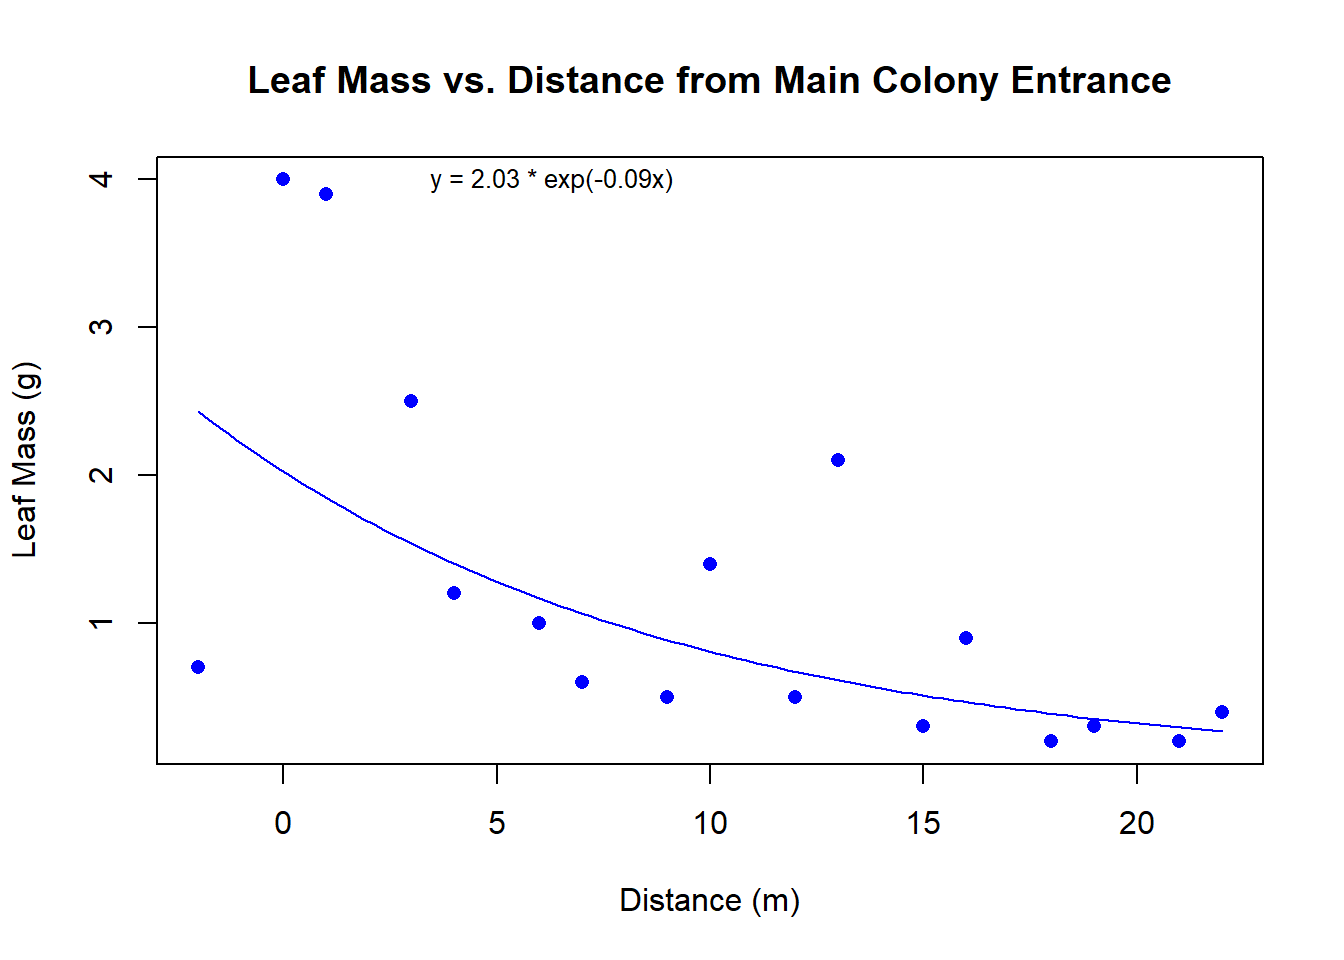
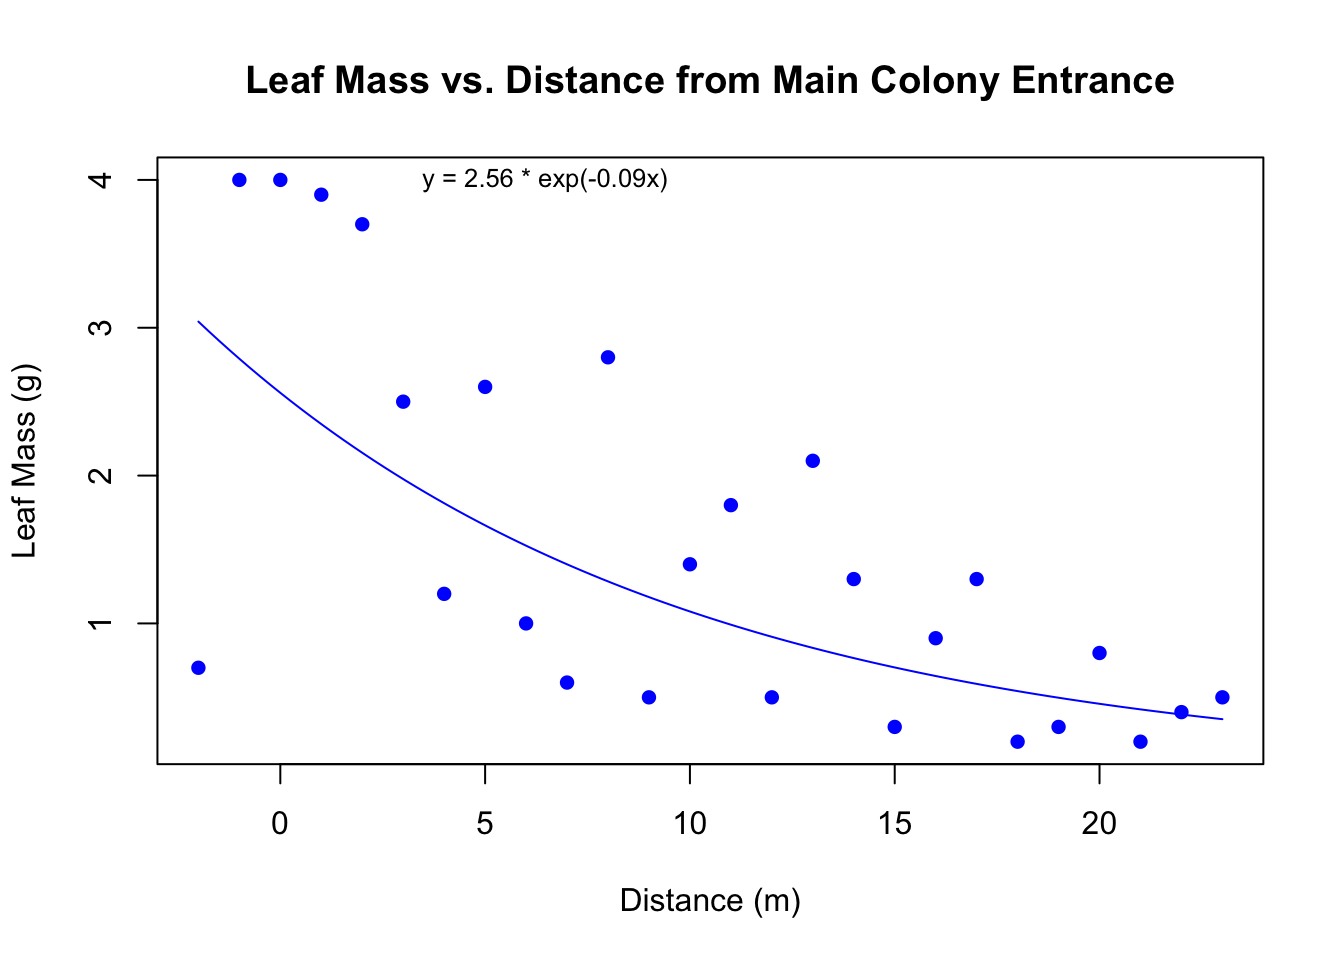
R Commit

diff --git a/Scatter Plot.html b/Scatter Plot.html
@@ -109,13 +109,13 @@ pre > code.sourceCode > span > a:first-child::before { text-decoration: underlin
 <h2 class="anchored" data-anchor-id="data">Data</h2>
 <div class="cell">
 <div class="sourceCode cell-code" id="cb1"><pre class="sourceCode r code-with-copy"><code class="sourceCode r"><span id="cb1-1"><a href="#cb1-1" aria-hidden="true" tabindex="-1"></a><span class="co"># vector x (distance from main colony entrance)</span></span>
-<span id="cb1-2"><a href="#cb1-2" aria-hidden="true" tabindex="-1"></a>x <span class="ot">&lt;-</span> <span class="fu">c</span>(<span class="dv">0</span>, <span class="dv">6</span>, <span class="dv">12</span>, <span class="dv">18</span>, <span class="dv">3</span>, <span class="dv">9</span>, <span class="dv">15</span>, <span class="dv">21</span>, <span class="dv">1</span>, <span class="dv">7</span>, <span class="dv">13</span>, <span class="dv">19</span>, <span class="sc">-</span><span class="dv">2</span>, <span class="dv">4</span>, <span class="dv">10</span>, <span class="dv">16</span>, <span class="dv">22</span>)</span>
+<span id="cb1-2"><a href="#cb1-2" aria-hidden="true" tabindex="-1"></a>x <span class="ot">&lt;-</span> <span class="fu">c</span>(<span class="dv">0</span>, <span class="dv">6</span>, <span class="dv">12</span>, <span class="dv">18</span>, <span class="dv">3</span>, <span class="dv">9</span>, <span class="dv">15</span>, <span class="dv">21</span>, <span class="dv">1</span>, <span class="dv">7</span>, <span class="dv">13</span>, <span class="dv">19</span>, <span class="sc">-</span><span class="dv">2</span>, <span class="dv">4</span>, <span class="dv">10</span>, <span class="dv">16</span>, <span class="dv">22</span>, <span class="dv">2</span>, <span class="dv">8</span>, <span class="dv">14</span>,<span class="dv">20</span>, <span class="sc">-</span><span class="dv">1</span>, <span class="dv">5</span>, <span class="dv">11</span>, <span class="dv">17</span>, <span class="dv">23</span>)</span>
 <span id="cb1-3"><a href="#cb1-3" aria-hidden="true" tabindex="-1"></a></span>
 <span id="cb1-4"><a href="#cb1-4" aria-hidden="true" tabindex="-1"></a><span class="co"># vector y (leaf pass in quadrat)</span></span>
-<span id="cb1-5"><a href="#cb1-5" aria-hidden="true" tabindex="-1"></a>y <span class="ot">&lt;-</span> <span class="fu">c</span>(<span class="dv">4</span>, <span class="dv">1</span>, <span class="fl">0.5</span>, <span class="fl">0.2</span>, <span class="fl">2.5</span>, <span class="fl">0.5</span>, <span class="fl">0.3</span>, <span class="fl">0.2</span>, <span class="fl">3.9</span>, <span class="fl">0.6</span>, <span class="fl">2.1</span>, <span class="fl">0.3</span>, <span class="fl">0.7</span>, <span class="fl">1.2</span>, <span class="fl">1.4</span>, <span class="fl">0.9</span>, <span class="fl">0.4</span>)</span>
+<span id="cb1-5"><a href="#cb1-5" aria-hidden="true" tabindex="-1"></a>y <span class="ot">&lt;-</span> <span class="fu">c</span>(<span class="dv">4</span>, <span class="dv">1</span>, <span class="fl">0.5</span>, <span class="fl">0.2</span>, <span class="fl">2.5</span>, <span class="fl">0.5</span>, <span class="fl">0.3</span>, <span class="fl">0.2</span>, <span class="fl">3.9</span>, <span class="fl">0.6</span>, <span class="fl">2.1</span>, <span class="fl">0.3</span>, <span class="fl">0.7</span>, <span class="fl">1.2</span>, <span class="fl">1.4</span>, <span class="fl">0.9</span>, <span class="fl">0.4</span>, <span class="fl">3.7</span>, <span class="fl">2.8</span>, <span class="fl">1.3</span>, <span class="fl">0.8</span>, <span class="fl">4.0</span>, <span class="fl">2.6</span>, <span class="fl">1.8</span>, <span class="fl">1.3</span>, <span class="fl">0.5</span>)</span>
 <span id="cb1-6"><a href="#cb1-6" aria-hidden="true" tabindex="-1"></a></span>
 <span id="cb1-7"><a href="#cb1-7" aria-hidden="true" tabindex="-1"></a><span class="co"># vector z (leaf count in quadrat)</span></span>
-<span id="cb1-8"><a href="#cb1-8" aria-hidden="true" tabindex="-1"></a>z <span class="ot">&lt;-</span> <span class="fu">c</span>(<span class="dv">124</span>, <span class="dv">43</span>, <span class="dv">21</span>,  <span class="dv">9</span>, <span class="dv">118</span>, <span class="dv">22</span>, <span class="dv">9</span>, <span class="dv">7</span>, <span class="dv">137</span>, <span class="dv">46</span>, <span class="dv">95</span>, <span class="dv">15</span>, <span class="dv">36</span>, <span class="dv">76</span>, <span class="dv">88</span>, <span class="dv">44</span>,  <span class="dv">21</span>)</span></code><button title="Copy to Clipboard" class="code-copy-button"><i class="bi"></i></button></pre></div>
+<span id="cb1-8"><a href="#cb1-8" aria-hidden="true" tabindex="-1"></a>z <span class="ot">&lt;-</span> <span class="fu">c</span>(<span class="dv">124</span>, <span class="dv">43</span>, <span class="dv">21</span>,  <span class="dv">9</span>, <span class="dv">118</span>, <span class="dv">22</span>, <span class="dv">9</span>, <span class="dv">7</span>, <span class="dv">137</span>, <span class="dv">46</span>, <span class="dv">95</span>, <span class="dv">15</span>, <span class="dv">36</span>, <span class="dv">76</span>, <span class="dv">88</span>, <span class="dv">44</span>,  <span class="dv">21</span>, <span class="dv">106</span>, <span class="dv">101</span>, <span class="dv">70</span>, <span class="dv">17</span>, <span class="dv">129</span>, <span class="dv">82</span>, <span class="dv">69</span>, <span class="dv">45</span>, <span class="dv">25</span>)</span></code><button title="Copy to Clipboard" class="code-copy-button"><i class="bi"></i></button></pre></div>
 </div>
 </section>
 <section id="sort-based-on-x" class="level2">
@@ -134,22 +134,31 @@ pre > code.sourceCode > span > a:first-child::before { text-decoration: underlin
 <div class="cell-output cell-output-stdout">
 <pre><code>    x   y   z          d
 13 -2 0.7  36 0.01944444
+22 -1 4.0 129 0.03100775
 1   0 4.0 124 0.03225806
 9   1 3.9 137 0.02846715
+18  2 3.7 106 0.03490566
 5   3 2.5 118 0.02118644
 14  4 1.2  76 0.01578947
+23  5 2.6  82 0.03170732
 2   6 1.0  43 0.02325581
 10  7 0.6  46 0.01304348
+19  8 2.8 101 0.02772277
 6   9 0.5  22 0.02272727
 15 10 1.4  88 0.01590909
+24 11 1.8  69 0.02608696
 3  12 0.5  21 0.02380952
 11 13 2.1  95 0.02210526
+20 14 1.3  70 0.01857143
 7  15 0.3   9 0.03333333
 16 16 0.9  44 0.02045455
+25 17 1.3  45 0.02888889
 4  18 0.2   9 0.02222222
 12 19 0.3  15 0.02000000
+21 20 0.8  17 0.04705882
 8  21 0.2   7 0.02857143
-17 22 0.4  21 0.01904762</code></pre>
+17 22 0.4  21 0.01904762
+26 23 0.5  25 0.02000000</code></pre>
 </div>
 </div>
 </section>
@@ -164,22 +173,31 @@ pre > code.sourceCode > span > a:first-child::before { text-decoration: underlin
 <div class="cell-output cell-output-stdout">
 <pre><code> Distance (m) Leaf Mass (g) Leaf Count Average Mass per Leaf
            -2           0.7         36            0.01944444
+           -1           4.0        129            0.03100775
             0           4.0        124            0.03225806
             1           3.9        137            0.02846715
+            2           3.7        106            0.03490566
             3           2.5        118            0.02118644
             4           1.2         76            0.01578947
+            5           2.6         82            0.03170732
             6           1.0         43            0.02325581
             7           0.6         46            0.01304348
+            8           2.8        101            0.02772277
             9           0.5         22            0.02272727
            10           1.4         88            0.01590909
+           11           1.8         69            0.02608696
            12           0.5         21            0.02380952
            13           2.1         95            0.02210526
+           14           1.3         70            0.01857143
            15           0.3          9            0.03333333
            16           0.9         44            0.02045455
+           17           1.3         45            0.02888889
            18           0.2          9            0.02222222
            19           0.3         15            0.02000000
+           20           0.8         17            0.04705882
            21           0.2          7            0.02857143
-           22           0.4         21            0.01904762</code></pre>
+           22           0.4         21            0.01904762
+           23           0.5         25            0.02000000</code></pre>
 </div>
 </div>
 </section>
